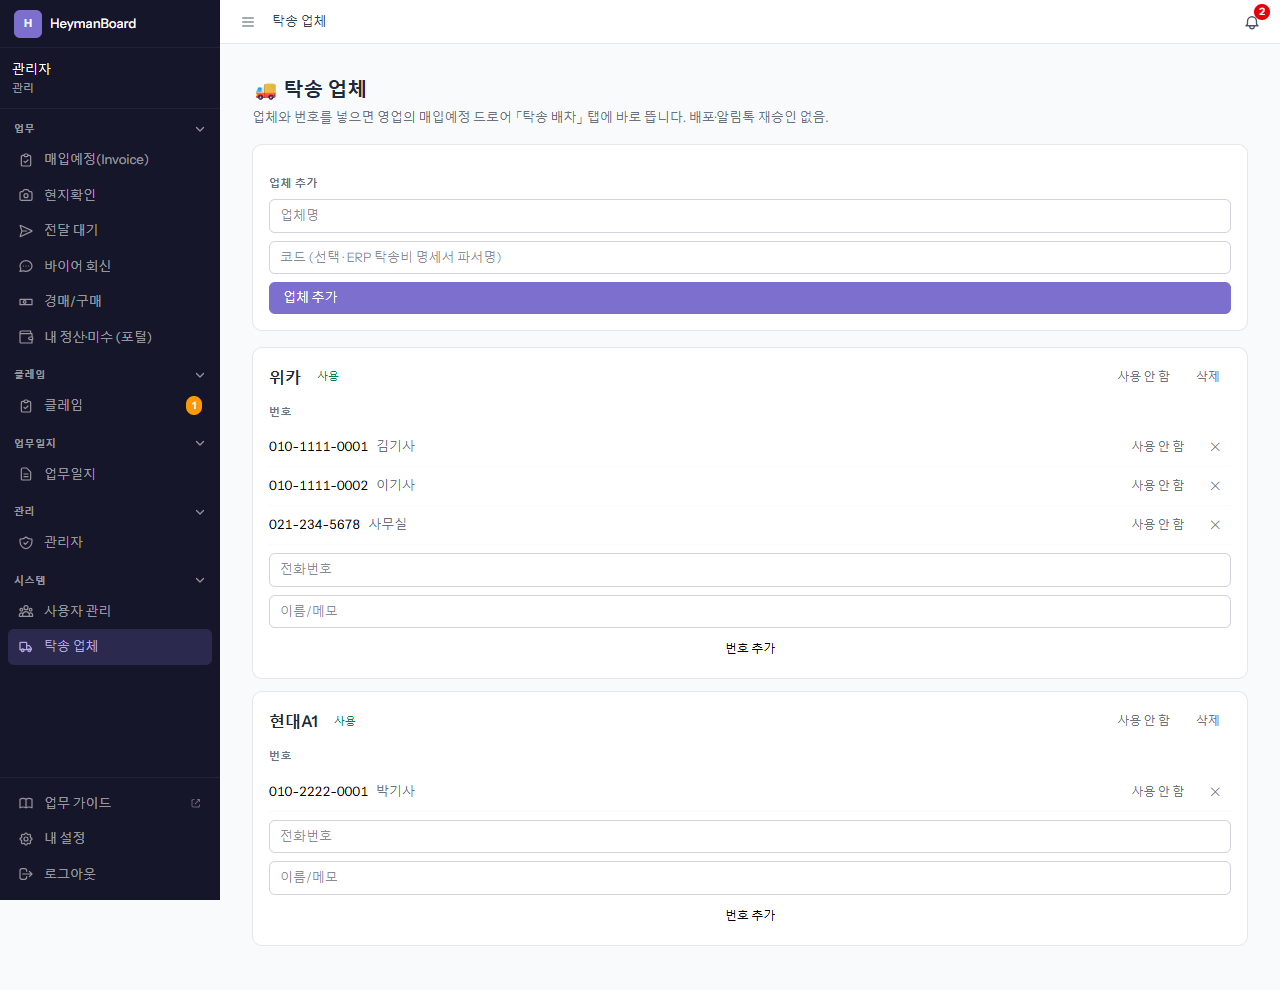
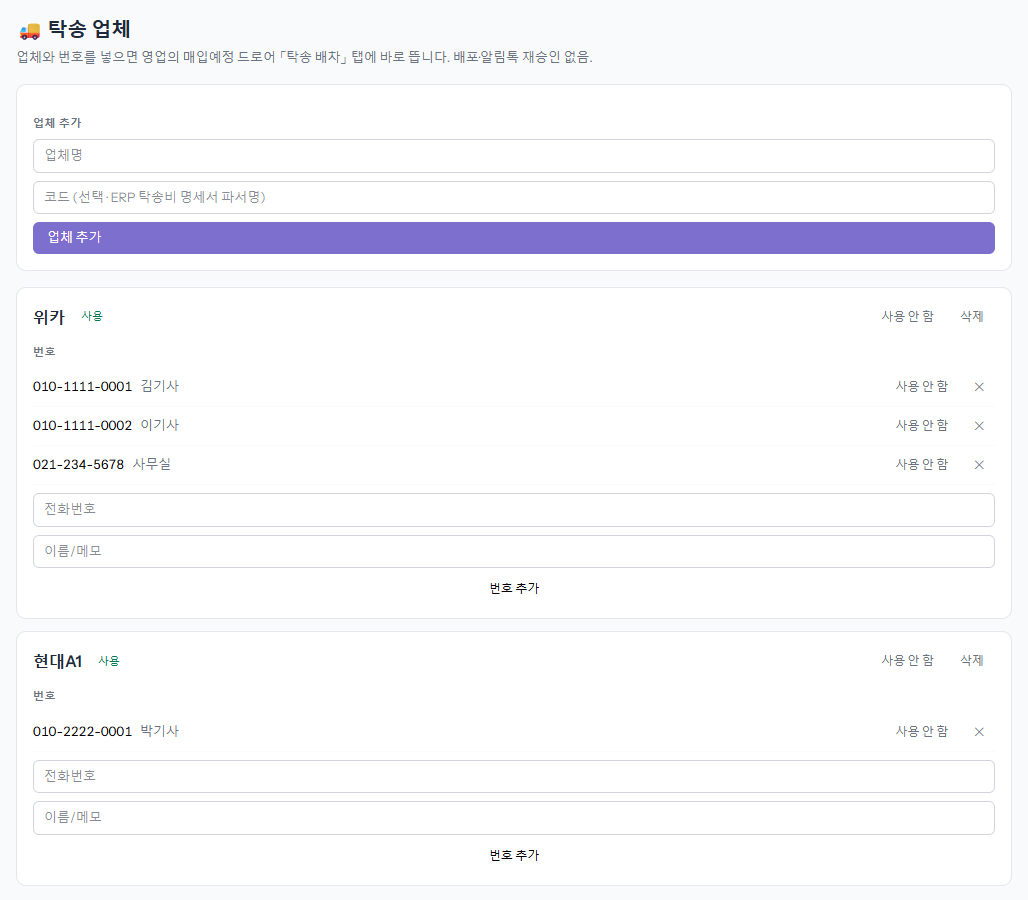
feat(guides): 씬 화면 형식 확정안 반영 — 왼쪽 정렬·개발 상세 블록 제거·카드 안 목록(ul)·묶음 제목(gd-sec)·그림 ?v= 캐시 방지, 업체 화면 그림은 내용만 잘라서(Jin 2026-11-13, ERP 와 같은 형식)

diff --git a/resources/guides/transport-dispatch/index.html b/resources/guides/transport-dispatch/index.html
@@ -14,14 +14,14 @@
     <h3>영업이 매입예정에서 차를 눌러 「탁송 배차」 탭을 엽니다</h3>
     <p>「매입예정(Invoice)」 목록에서 차 줄을 누르면 오른쪽에 창이 열립니다. 위쪽 탭 가운데 [탁송 배차]를 누릅니다. 이 탭은 차가 어느 단계에 있든 열립니다.</p>
     <p>아래 순서로 적습니다.</p>
-    <p>
-        · 「탁송 업체」 — 보낼 업체를 고릅니다. 그 업체에 등록된 번호 전부에게 갑니다.<br>
-        · 「추가 번호」 — 목록에 없는 번호 하나를 더 넣을 때만 적습니다.<br>
-        · 「차량 위치」 — 차가 서 있는 주소를 한 줄로 적습니다.<br>
-        · 「도착 위치」 — 홈플·화물·야드 가운데 차가 갈 곳을 누릅니다.<br>
-        · 「사진」 — 명함이나 차량 외관을 최대 5장까지 붙입니다. 업체가 링크 화면에서 봅니다.<br>
-        · 「문구」 — 그대로 두거나 고쳐 씁니다.
-    </p>
+    <ul>
+        <li>「탁송 업체」 — 보낼 업체를 고릅니다. 그 업체에 등록된 번호 전부에게 갑니다.</li>
+        <li>「추가 번호」 — 목록에 없는 번호 하나를 더 넣을 때만 적습니다.</li>
+        <li>「차량 위치」 — 차가 서 있는 주소를 한 줄로 적습니다.</li>
+        <li>「도착 위치」 — 홈플·화물·야드 가운데 차가 갈 곳을 누릅니다.</li>
+        <li>「사진」 — 명함이나 차량 외관을 최대 5장까지 붙입니다. 업체가 링크 화면에서 봅니다.</li>
+        <li>「문구」 — 그대로 두거나 고쳐 씁니다.</li>
+    </ul>
     <p>「함께 받는 사람」에 본인과 담당 관리 이름이 보이는지 확인하고 [배차 요청 보내기]를 누릅니다. 나중에 보내려면 「예약 보내기」를 고르고 「보낼 시각」을 정합니다.</p>
     <img src="02.png" alt="탁송 배차 탭 — 업체·차량 위치·도착 위치를 적은 모습" width="440">
 </div>
@@ -48,12 +48,6 @@
 아래 버튼에서 차량 사진과 위치를 확인하신 뒤 배차 가능 여부(배차완료/배차거절)를 알려 주세요.
 이 메시지는 헤이맨가 배차를 요청한 탁송 업체 담당자와 요청 영업담당자에게 발송됩니다.<small>[배차 확인] 버튼이 붙어 있습니다 · 번호판·주소는 예시입니다</small></div>
     <p>사진은 알림톡에 실리지 않습니다. [배차 확인] 버튼을 누르면 나오는 화면에서 봅니다. 영업과 관리도 같은 알림톡을 받지만, 그 버튼으로는 보기만 할 수 있습니다.</p>
-    <details>
-        <summary>개발 상세</summary>
-        <pre>템플릿 board_transport_request · 버튼 = 수신자마다 다른 서명 링크(5일) /a/transport/{요청}?r={수신자}
-본문 = AlimtalkTemplates::render() 결과 그대로(회사명은 인스턴스별: 헤이맨 / 싼카)
-감사 행 transport_request_create → transport_request_sent · ERP 보관 위치 = transport_location_sent</pre>
-    </details>
 </div>
 
 <div class="gd-step">
@@ -81,11 +75,6 @@
 요청한 영업담당자와 담당 관리자에게 발송됩니다.<small>거절이면 「결과: 배차거절」과 업체가 적은 사유가 옵니다</small></div>
     <p>board 화면 오른쪽 위 종에도 같은 내용이 뜹니다. 휴대폰 알림을 켜 두었으면 폰으로도 옵니다. 종의 그 줄을 누르면 그 차의 「탁송 배차」 탭이 바로 열립니다.</p>
     <img src="07.png" alt="종 — 탁송 배차 배차완료" width="382">
-    <details>
-        <summary>개발 상세</summary>
-        <pre>템플릿 board_transport_result · 수신 = 요청의 영업·관리 수신자 · 웹푸시 url = /listings?edit={매물}
-감사 행 transport_request_decided(처리자 전화는 가운데 마스킹, 업체 IP 포함)</pre>
-    </details>
 </div>
 
 <div class="gd-step">
@@ -96,11 +85,6 @@
     <p>보내고 나면 위쪽에 아래 안내가 뜨고, 칸은 「매입잔금 요청을 이미 보냈습니다」로 바뀝니다. 배차 정보(업체·처리자·시각)가 메모로 함께 갑니다.</p>
     <img src="09.png" alt="매입잔금 요청을 ERP 로 보냈습니다 안내" width="440">
     <img src="10.png" alt="요청 이력 — 매입잔금 요청을 이미 보냈습니다" width="400">
-    <details>
-        <summary>개발 상세</summary>
-        <pre>포털 [매입잔금]과 같은 ERP 호출(등록 영업 명의) · 금액 비움 = ERP 지급대기 행의 미지급 전액
-note = "배차: 업체 · 처리자 010-****-0000 · 일시" · 감사 행 transport_balance_request</pre>
-    </details>
 </div>
 
 <div class="gd-step">

diff --git a/scripts/guide-shots/template.html b/scripts/guide-shots/template.html
@@ -1,6 +1,10 @@
 <!-- 업무 가이드 씬 본문 견본 — 복사해서 resources/guides/{slug}/index.html 로 쓴다(이 파일 자체는 화면에 안 나온다).
      · 레이아웃·제목·이전/다음은 앱이 그린다. 여기엔 아래 조각만 적는다.
-     · 본문은 직원 말로: 「어느 화면에서 무엇을 누르면 무엇이 보인다」. 변수명·주소·상태 코드는 <details> 안에만.
+     · 본문은 직원 말로: 「어느 화면에서 무엇을 누르면 무엇이 보인다」. 변수명·주소·상태 코드는 쓰지 않는다.
+     · 🚫 「개발 상세」 접힌 블록을 본문에 넣지 않는다(Jin 2026-11-13 「사용자는 봐도 모른다」) — 실측 기록은 기획·SKILLS 문서에.
+     · 단계마다 글 2~3문장 + 그 글과 1:1 로 맞는 그림. 입력 칸은 하나씩 무엇을 넣는지 <ul> 로 구체적으로.
+     · 그림은 그 창(드로어·모달)만 잘라서 — 뒤 목록의 샘플 데이터가 보이지 않게.
+     · 묶음이 여럿이면 <h2 class="gd-sec">① 묶음 제목</h2> 로 나눈다.
      · 화면 라벨은 lang 파일에서 확인한 그대로 「」 또는 [버튼] 으로. 금액·번호판·이름은 예시값(실명·전화·실차량번호 금지).
      · 그림은 파일명만(src="01.png") — 같은 폴더에 둔다(png·jpg·webp, 파일명은 영문·숫자·-·_ 만).
      · 시스템관리자 화면(기능설정·알림톡 로그)을 거치는 단계는 쓰지 않는다.
@@ -19,10 +23,6 @@
     <h3>누구에게 알림톡이 갑니다</h3>
     <div class="gd-bubble">알림톡 본문은 코드의 렌더 결과를 그대로 붙입니다(손으로 옮겨 적지 않습니다).
 줄바꿈은 그대로 보입니다.<small>금액·번호는 예시입니다</small></div>
-    <details>
-        <summary>개발 상세</summary>
-        <pre>요청/응답 · 감사 행 · 코드 경로 — 검색에는 걸리지 않습니다</pre>
-    </details>
 </div>
 
 <div class="gd-step">

diff --git a/resources/views/guides/show.blade.php b/resources/views/guides/show.blade.php
@@ -2,8 +2,10 @@
     {{-- 업무 가이드 씬 한 장 (Jin 2026-11-13, car-erp 와 같은 틀). 본문 = resources/guides/{slug}/index.html (레포에 든 우리 글 — 그대로 내보낸다).
          본문이 쓰는 모양은 아래 네 가지뿐: 레인(.gd-lane) · 카드(.gd-step) · 카톡 말풍선(.gd-bubble) · 접힌 개발 블록(details). --}}
     <style>
-        .gd-scene { max-width: 980px; margin: 0 auto; color: #1f2937; font-size: 13.5px; }
+        .gd-scene { max-width: 980px; margin: 0; color: #1f2937; font-size: 13.5px; }   /* 왼쪽 정렬 — 위 [← 목록]·제목 줄과 같은 선(Jin 2026-11-13) */
         .gd-scene h3 { font-size: 14px; font-weight: 700; margin: 0; }
+        .gd-scene h2.gd-sec { font-size: 15px; font-weight: 700; margin: 22px 0 10px; padding-left: 9px; border-left: 3px solid #7c6fcd; }
+        .gd-step ul { margin: 6px 0 0; padding-left: 18px; list-style: disc; line-height: 1.65; }
         .gd-lane { display: grid; grid-template-columns: 110px 1fr; gap: 14px; margin-bottom: 14px; }
         .gd-lane > .gd-who2 { font-size: 12px; font-weight: 700; color: #fff; border-radius: 8px; padding: 8px 6px; text-align: center; align-self: start; }
         .gd-l-erp { background: #7c6fcd; } .gd-l-talk { background: #b45309; } .gd-l-out { background: #0f766e; } .gd-l-board { background: #1d4ed8; }
@@ -39,11 +41,11 @@
         </div>
 
         @if($scene['koreanOnly'])
-            <p class="mb-3 text-sm text-gray-500" style="max-width: 980px; margin-left: auto; margin-right: auto">{{ __('guides.korean_only_note') }}</p>
+            <p class="mb-3 text-sm text-gray-500" style="max-width: 980px">{{ __('guides.korean_only_note') }}</p>
         @endif
         <div class="gd-scene">{!! $html !!}</div>
 
-        <div class="flex flex-wrap items-center justify-between gap-3" style="max-width: 980px; margin: 24px auto 0; padding-top: 16px; border-top: 1px solid #e5e7eb">
+        <div class="flex flex-wrap items-center justify-between gap-3" style="max-width: 980px; margin: 24px 0 0; padding-top: 16px; border-top: 1px solid #e5e7eb">
             <div>
                 @if($near['prev'])
                     <a href="{{ route('guides.show', $near['prev']['slug']) }}" class="rounded border border-gray-300 bg-white px-3 py-1.5 text-sm text-gray-700">← {{ \Illuminate\Support\Str::before($near['prev']['title'], ' — ') }}</a>

diff --git a/app/Http/Controllers/GuideController.php b/app/Http/Controllers/GuideController.php
@@ -38,7 +38,10 @@ class GuideController extends Controller
         return view('guides.show', [
             'scene' => $scene,
             // 본문은 그림을 파일명만으로 적는다(src="01.png") — 여기서 이 씬의 그림 주소로 바꾼다.
-            'html' => preg_replace('/src="([A-Za-z0-9_-]+\.(?:png|jpg|webp))"/', 'src="'.url('guides/'.$slug).'/$1"', GuideCatalog::html($slug)),
+            // ?v=수정시각 — 그림은 1시간 캐시라, 같은 이름으로 그림을 갈면 브라우저가 옛 그림을 새 글 옆에 보여 준다(ERP 첫 씬에서 실제로 났다).
+            'html' => preg_replace_callback('/src="([A-Za-z0-9_-]+\.(?:png|jpg|webp))"/',
+                fn ($m) => 'src="'.url('guides/'.$slug).'/'.$m[1].'?v='.(@filemtime((string) GuideCatalog::asset($slug, $m[1])) ?: 0).'"',
+                GuideCatalog::html($slug)),
             'near' => GuideCatalog::neighbours($slug),
         ]);
     }

diff --git a/SKILLS.md b/SKILLS.md
@@ -1063,7 +1063,7 @@ Jin 이 ERP 에서 수기 정정. **전수 조사 = heymanboard 74대 중 12대*
 car-erp 의 `/guides` 와 **같은 구조**로 만든 직원용 씬 워크스루 화면(Jin 「board 도 같은 구성 + 서로 링크」). 틀 코드는 ERP 것(`GuideCatalog`·`GuideController`·뷰 2개)을 옮겨 온 것이라 **한쪽을 고치면 다른 쪽도 같이 본다**(car-erp 세션에 알릴 것).
 - **목록 단일 출처 = `config/guides.php`**: `scenes[slug] = [묶음, 제목, 요약, 누가[], 찾는 말]` · `scenes_en[slug] = [제목, 요약]`(같은 키·순서 — 테스트가 강제) · `groups`(순서) · `lap`(한 바퀴 순서). 화면 문구·묶음 이름·역할 이름 = `lang/{ko,en}/guides.php`. **씬을 추가하면 세 곳**(scenes · scenes_en · 새 역할이면 lang roles) — 빠지면 `GuidesPageTest::test_every_scene_has_an_english_title_and_known_group_and_roles` 가 잡는다.
 - **상태는 config 에 적지 않는다** — `resources/guides/{slug}/index.html` 없음 = 「준비 중」(404) / 있음 = 「사용 중」 / 파일 수정 뒤 14일 = 「새로 올라옴」(파일 mtime — 배포가 `git reset` 으로 mtime 을 바꾸면 전부 「새로 올라옴」으로 보일 수 있다, 미확인).
-- **본문 = 조각 HTML**(레이아웃 없음). 클래스는 `.gd-step`(`.gd-n` = 「1단계」) · `.gd-bubble` · `details`(개발 상세 — 검색 색인에서 빠진다) · 끝에 `.gd-check`. 🚫 **카드 앞에 「영업」「관리」 같은 라벨(레인)을 달지 않는다**(Jin 2026-11-13 — ERP 본문도 카드만 쌓는다) — 누가 하는 일인지는 제목 문장에 적는다. 뷰에 `.gd-lane` 스타일은 남아 있지만 쓰지 않는다. 그림은 `src="01.png"` 파일명만(컨트롤러가 `/guides/{slug}/01.png` 로 바꿔 서빙, png·jpg·webp, 파일명 화이트리스트). 영어판 = `index.en.html`(없으면 한국어 본문 + 「Korean only」).
+- **본문 = 조각 HTML**(레이아웃 없음). 클래스는 `.gd-step`(`.gd-n` = 「1단계」) · `.gd-bubble` · `h2.gd-sec`(묶음 제목) · 카드 안 목록은 `<ul>` · 끝에 `.gd-check`. 🚫 **「개발 상세」 접힌 블록을 본문에 넣지 않는다**(Jin 2026-11-13 「사용자는 봐도 모른다」 — 실측 기록은 기획 문서·이 절에). **본문은 왼쪽 정렬**(가운데 아님, 폭 한도 980px). 단계마다 글 2~3문장 + 1:1 로 맞는 그림, 그림은 그 창만 잘라서(뒤 목록 샘플 데이터 안 보이게), 입력 칸은 하나씩 `<ul>` 로. 그림 주소엔 컨트롤러가 `?v=수정시각`을 붙인다(1시간 캐시 — 같은 파일명으로 그림을 갈면 옛 그림이 새 글 옆에 뜬다). 🚫 **카드 앞에 「영업」「관리」 같은 라벨(레인)을 달지 않는다**(Jin 2026-11-13 — ERP 본문도 카드만 쌓는다) — 누가 하는 일인지는 제목 문장에 적는다. 뷰에 `.gd-lane` 스타일은 남아 있지만 쓰지 않는다. 그림은 `src="01.png"` 파일명만(컨트롤러가 `/guides/{slug}/01.png` 로 바꿔 서빙, png·jpg·webp, 파일명 화이트리스트). 영어판 = `index.en.html`(없으면 한국어 본문 + 「Korean only」).
 - 🚫 **시스템관리자 일은 목록에도 본문 단계에도 넣지 않는다**(기능설정·알림톡 로그 화면을 거치는 단계 금지 — Jin). 본문은 사용자 말로(변수명·엔드포인트 금지, 기획 §2).
 - 접근 = 로그인한 **활성** 계정 전부(역할 미들웨어 없음 → 컨트롤러 세 메서드가 `is_active` 를 본다. 🚫 생성자에서 `auth()->user()` 를 보지 말 것 — 미들웨어 전에 돌아 전원 403).
 - 사이드바 = `GuideCatalog::hasAny()`(파일 존재만 봄) 이면 앱 안 `/guides`, 아니면 종전 Notion 링크(빈 목록으로 안 보낸다).
